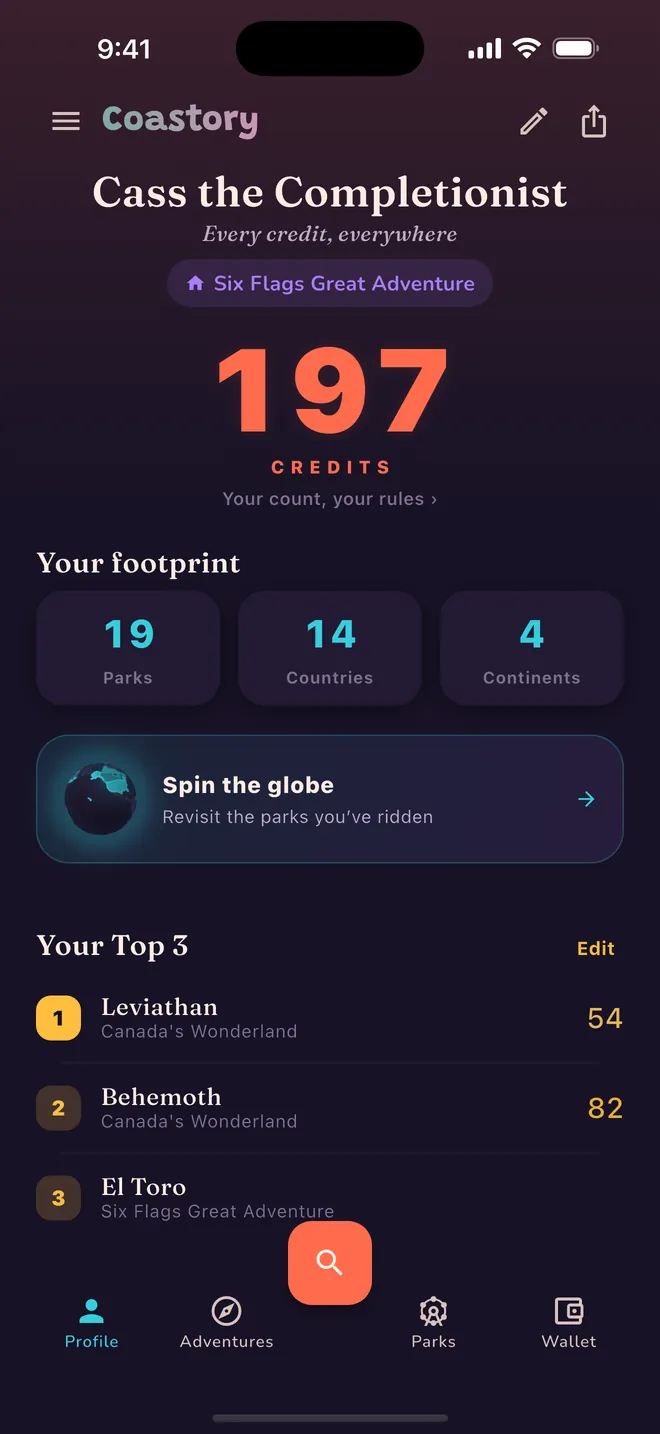
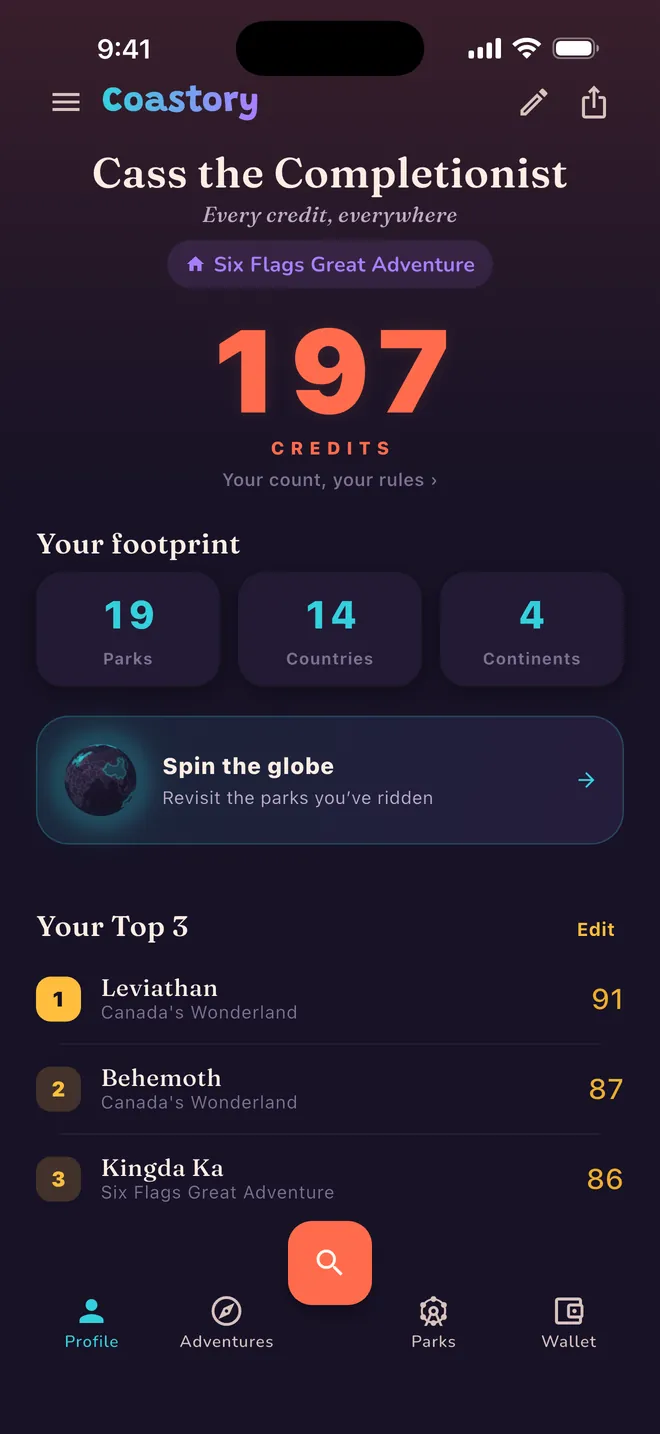
site: reshoot the hero, where the #1 favorite was rated 54
A rider wrote in on 2026-08-31 that the landing page showed Leviathan as
the number one favorite with a rating of about 54, and that it made no
sense. It didn't. The shot was worse than reported: #1 Leviathan 54, #2
Behemoth 82 outranking it, and #3 El Toro with no rating at all.

None of that was an app bug. The screenshot is taken against the
`completionist` dev-seed persona, whose ratings were a round-robin of
40 / 54 / 68 / 82 cycling down the fixture in file order -- so 54 was
never a judgement about Leviathan, and El Toro simply had no value in
the cycle. The fixture is fixed in the app repo (CSTRY-577, `7af31cdf`),
which is what makes this reshoot worth taking.

New shot reads 91 / 87 / 86. Same persona, same device and pipeline as
before: iPhone 17 Pro Max, 1320x2868, downscaled 50% to 660x1434, so
index.html needs no change and page weight moves 37.1 KB -> 38.1 KB.

The Top 3 is still picked by hand on the device, because nothing seeds
it and nothing should: Coastory does not derive a Top 3 from ratings and
a rider may love a ride they rate mid. Choosing three whose ratings
happen to descend is a framing decision about one marketing asset, not a
rule about riders -- the README now says so, so the next person doesn't
"fix" it in the app instead.

Also corrects the README's claim that these screenshots come from the
Globetrotter persona. The hero is Completionist -- 197 credits and a
Canada's Wonderland Top 3, neither of which Globetrotter has -- and the
[…]

diff --git a/README.md b/README.md
@@ -11,10 +11,25 @@ The public website for Coastory, served by GitHub Pages at **https://coastory.ap
 ## Assets
 
 - `img/*.webp` — **real screenshots from the app**, captured on the iOS simulator
-  against the `dev_seed` "Globetrotter" persona. Never mock up a Coastory screen
-  for this site: if a screenshot is out of date, take a new one. Capture notes
-  (Play's 2:1 dimension rule, the DEBUG banner, demo mode) live in the app repo's
-  session memory under `reference-capturing-store-screenshots`.
+  (iPhone 17 Pro Max, 1320x2868, downscaled 50% to 660x1434) against a `dev_seed`
+  persona. Never mock up a Coastory screen for this site: if a screenshot is out
+  of date, take a new one. Capture notes (Play's 2:1 dimension rule, the DEBUG
+  banner, demo mode) live in the app repo's session memory under
+  `reference-capturing-store-screenshots`.
+
+  **Which persona depends on the shot, so check the screen before reshooting.**
+  `profile.webp` — the hero — is **Cass the Completionist**, not Globetrotter:
+  it shows 197 credits and a Canada's Wonderland Top 3, and Globetrotter has
+  neither. This line used to say Globetrotter for all of them, which would have
+  sent a reshoot to the wrong persona.
+
+  The hero's **Top 3 is picked by hand on the device before capture** — nothing
+  seeds it. Coastory never derives a Top 3 from ratings and must not start; it
+  is the rider's own choice. But a marketing shot should still not show a #1
+  rated below a #3, which is exactly what a rider wrote in about on 2026-08-31
+  (CSTRY-577). Pick three whose ratings descend. The current shot is Leviathan
+  91 / Behemoth 87 / Kingda Ka 86, scrolled down slightly so the search button
+  does not clip the third row's park name.
 - `img/og.jpg` — 1200x630 social preview, referenced by the Open Graph and
   Twitter card tags. Regenerate it if the hero wording changes.
 - `img/mark.webp` — the 36px header wordmark icon. `icon.png` stays the favicon
